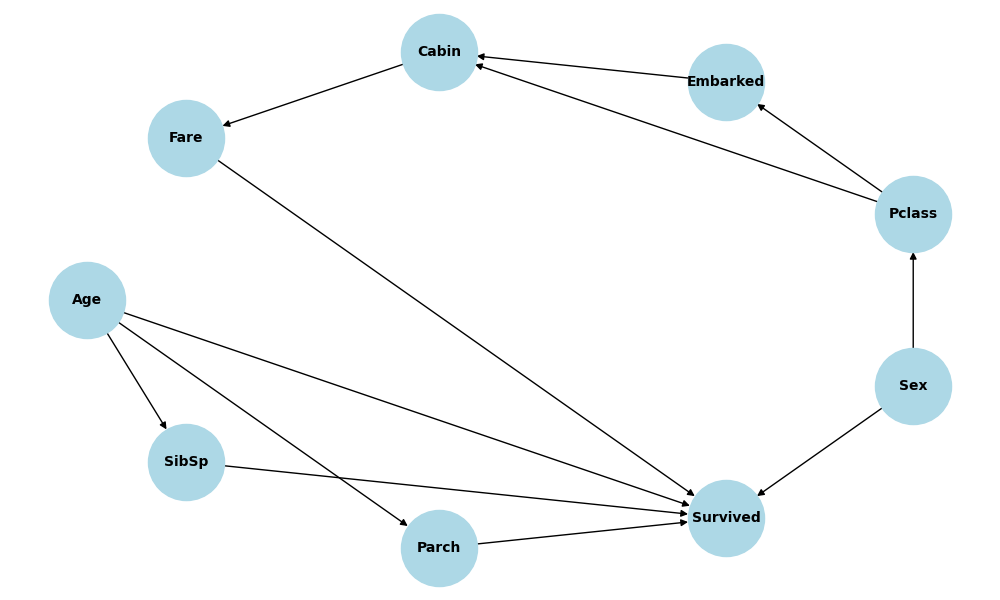
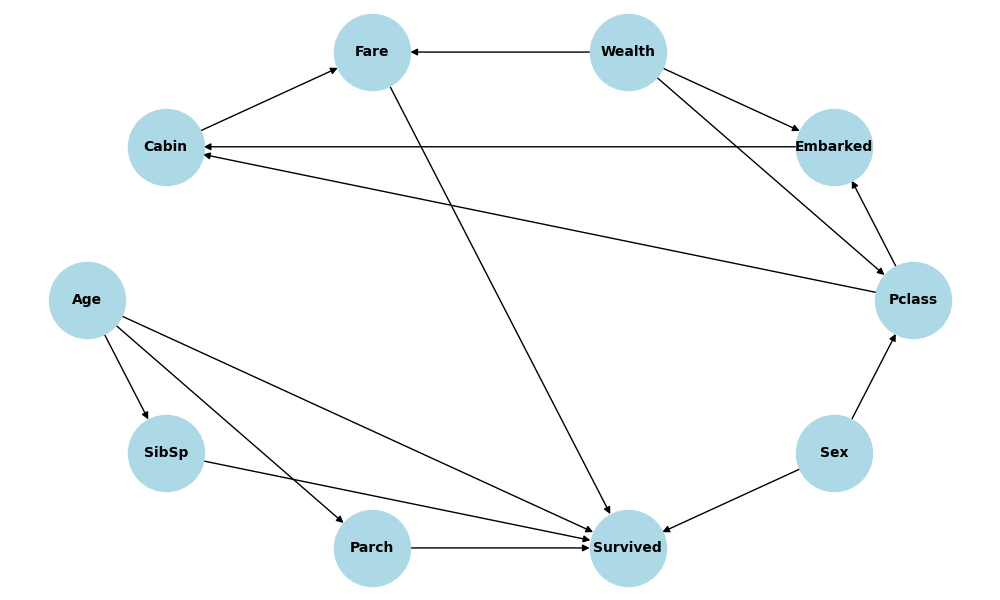
added another experiment

diff --git a/em.py b/em.py
@@ -111,18 +111,16 @@ def possible_values(df, nodes):
     # to store the possible values for each node
     possible_values = {}
     for node in nodes:
-        df[node] = df[node].sort_values()
         # get the unique values for the node from the dataframe
         if node in df.columns:
+            df[node] = df[node].sort_values()
             possible_values[node] = df[node].dropna().unique().tolist()
-        # handle numerical nodes separately
+        elif node == 'Wealth':
+            print('HERE')
+            # 3 bins for wealth
+            possible_values[node] = list(range(3))
         else:
-            if node == 'Age':
-                # 5 bins for Age
-                possible_values[node] = list(range(5))
-            if node == 'Fare':
-                # 5 bins for Fare
-                possible_values[node] = list(range(5))
+            assert ValueError(f"Node {node} not found in dataframe columns.")
     return possible_values
 
 
@@ -653,6 +651,19 @@ def main(case):
         # define visible and hidden nodes
         visible_nodes = ['SibSp', 'Parch', 'Sex', 'Pclass', 'Fare', 'Survived']
         hidden_nodes = ['Age', 'Cabin', 'Embarked']
+    elif case == 4:
+        nodes = ['Age', 'SibSp', 'Parch', 'Survived', 'Sex', 'Pclass', 'Embarked', 'Fare', 'Survived', 'Cabin', 'Wealth']
+        # define the edges of the dag
+        edges = [
+            ('Age', 'SibSp'), ('Age', 'Parch'), ('Age', 'Survived'),
+            ('SibSp', 'Survived'), ('Parch', 'Survived'),
+            ('Sex', 'Survived'), ('Sex', 'Pclass'), ('Pclass', 'Embarked'),
+            ('Wealth', 'Embarked'), ('Wealth', 'Fare'), ('Wealth', 'Pclass'),
+            ('Pclass', 'Cabin'), ('Embarked', 'Cabin'), ('Cabin', 'Fare'), ('Fare', 'Survived')
+        ]
+        # define visible and hidden nodes
+        visible_nodes = ['SibSp', 'Parch', 'Sex', 'Pclass', 'Fare', 'Survived']
+        hidden_nodes = ['Age', 'Cabin', 'Embarked', 'Wealth']
 
     # load and preprocess data
     data = load_data("./titanic/train.csv")
@@ -703,7 +714,7 @@ def main(case):
     pos = nx.shell_layout(dag)
     nx.draw(dag, pos, with_labels=True, node_size=3000, node_color='lightblue', font_size=10, font_weight='bold')
     plt.title('Directed Acyclic Graph (DAG)')
-    plt.savefig('dag_em.png')
+    # plt.savefig('dag_em.png')
     plt.show()
 
 
@@ -711,7 +722,7 @@ if __name__ == "__main__":
     parser = argparse.ArgumentParser()
     parser.add_argument("-e", "--number", type=int, required=True)
     args = parser.parse_args()
-    if args.number not in [1, 2, 3]:
-        raise ValueError("Invalid case number. Please choose 1, 2, or 3.")
+    if args.number not in [1, 2, 3, 4]:
+        raise ValueError("Invalid case number. Please choose 1, 2, 3, or 4.")
     main(args.number)
 
